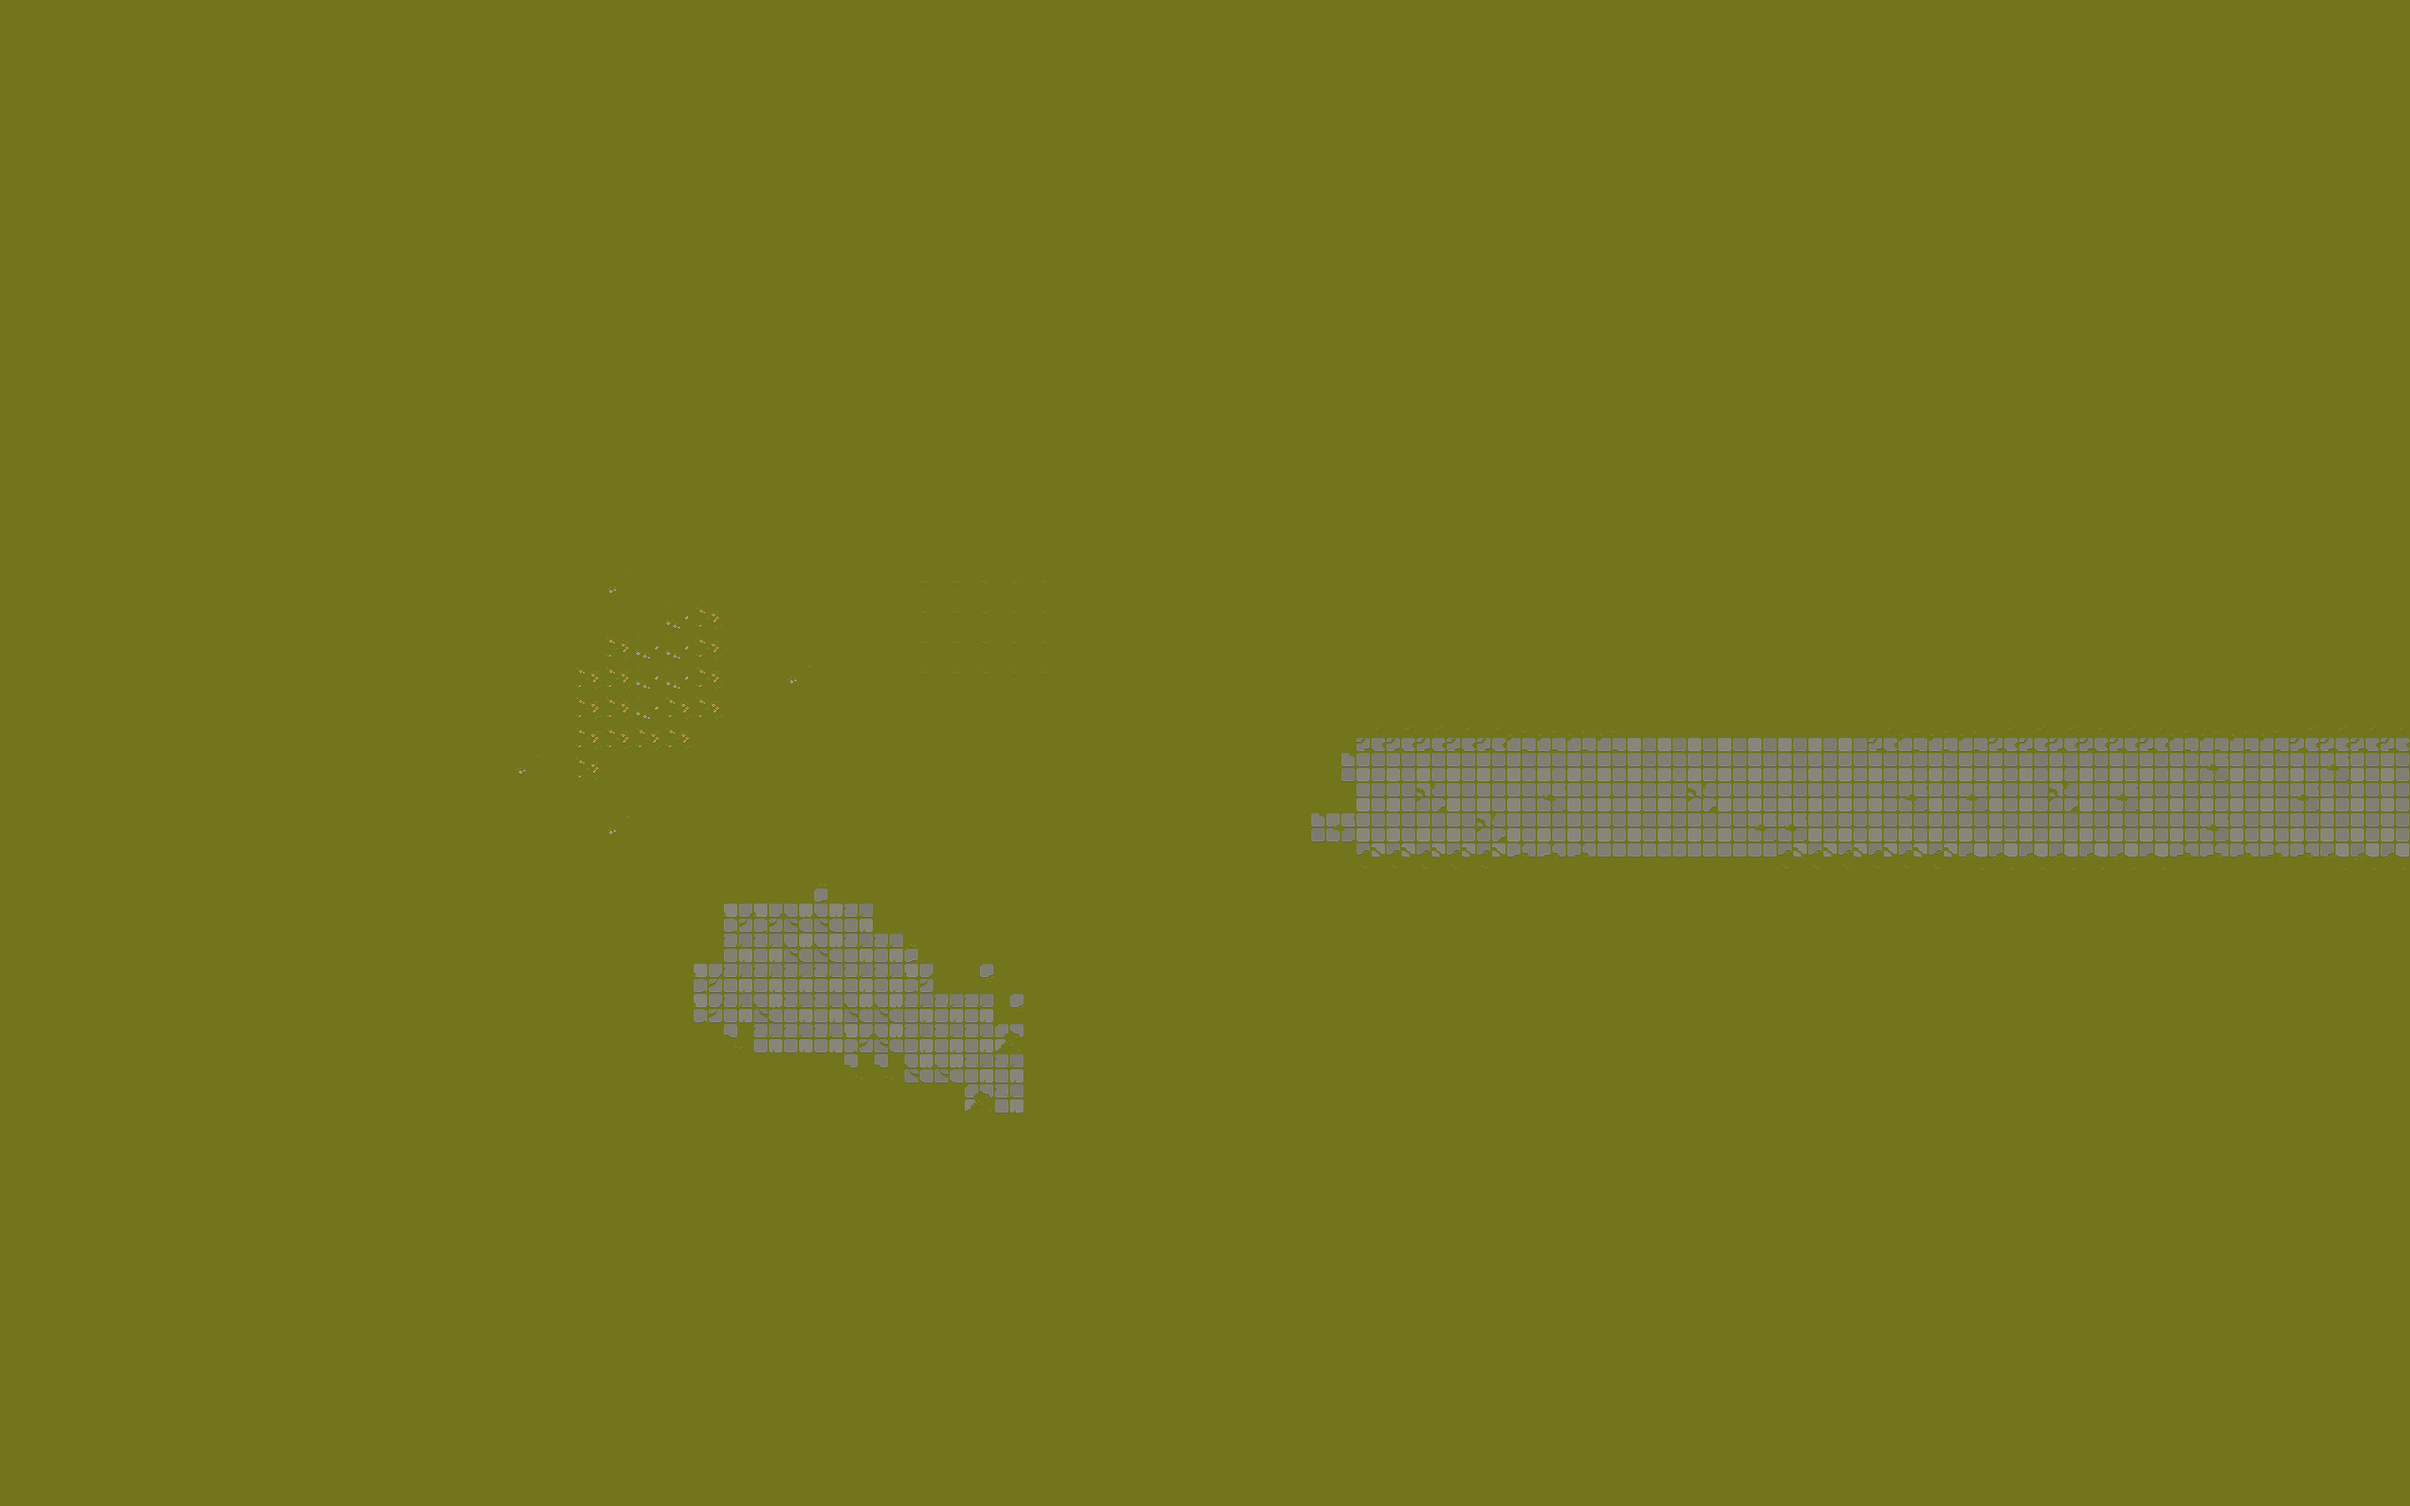
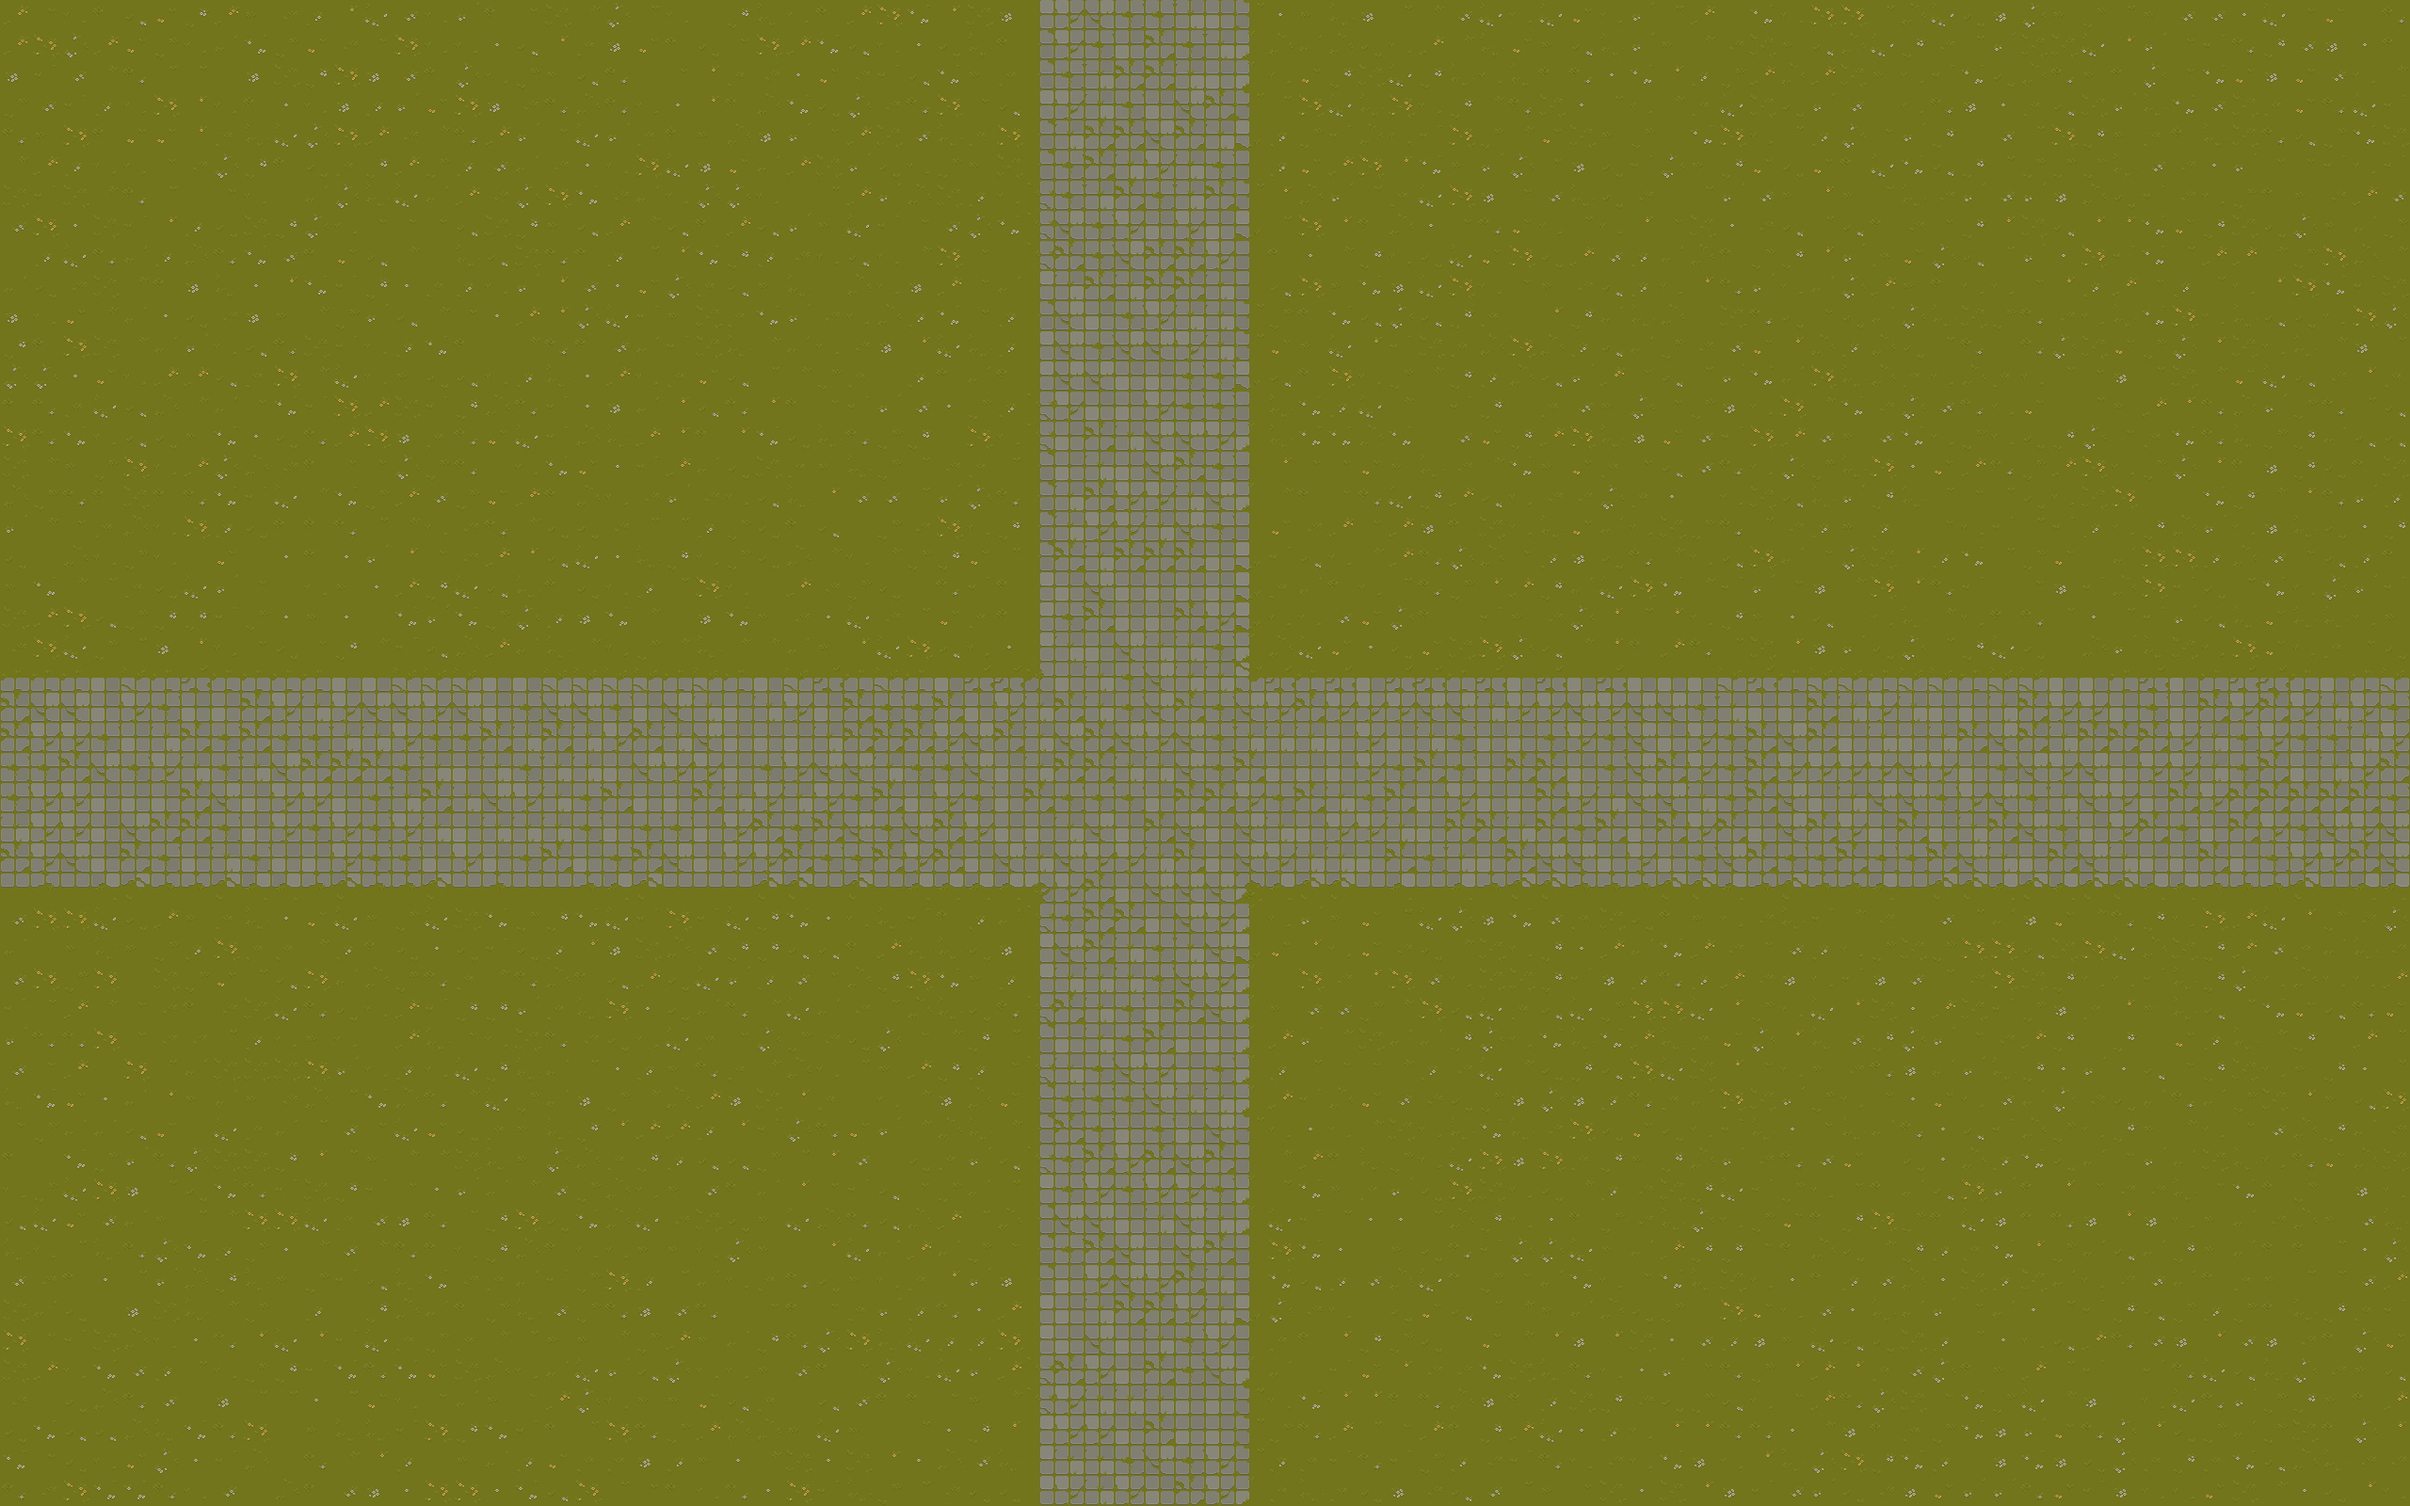
Add some lines, and redraw map

Changed region(s): [[0.0, 0.0, 1.0, 1.0]]

diff --git a/shop.py b/shop.py
@@ -1,8 +1,7 @@
-from debug import debug
 import pygame
-import json
+from math import floor
 
-
+from debug import debug
 from menu import *
 from support import *
 from settings import *
@@ -20,7 +19,8 @@ class Shop(Menu):
         # Card slider
         self.visible_cards = {}
         self.slider_index = 0
-        self.slider_arrows = []
+        self.slider_arrows = []        
+        self.slide_counter = {}
 
         # Card data
         self.shop_data = read_json_file("data/shop.json")
@@ -48,7 +48,7 @@ class Shop(Menu):
 
     def create_category_text(self):
         pos = [SCREEN_WIDTH/2, SCREEN_HEIGHT/2 - 180]
-        self.category_text = Text('title', self.active_category.upper(), UI_FONT, 40, 'white', pos)
+        self.category_text = Text('center', self.active_category.upper(), UI_FONT, 40, 'white', pos)
 
     def create_cards(self):
         card_size = [200, 240]
@@ -60,6 +60,7 @@ class Shop(Menu):
 
             self.cards[category] = []
             self.visible_cards[category] = [0, 1, 2]
+            self.slide_counter[category] = 1
 
             for item_place, item in enumerate(self.shop_data[category]):
                 pos = [start_pos[0] + (card_size[0] + gap) * item_place,
@@ -111,13 +112,19 @@ class Shop(Menu):
                                 self.visible_cards[category].remove(self.visible_cards[category][-1])
                                 self.visible_cards[category].insert(0, self.visible_cards[category][0] - 1)
                                 self.visible_cards[category].sort()
+                                self.slide_counter[self.active_category] -= 1
+                            
                         elif arrow_index == 1:
                             print("RIGHT")
                             if self.visible_cards[category][-1] < len(self.shop_data[category]) - 1:
                                 self.visible_cards[category].remove(self.visible_cards[category][0])
                                 self.visible_cards[category].append(self.visible_cards[category][-1] + 1)
                                 self.visible_cards[category].sort()
-    
+                                self.slide_counter[self.active_category] += 1       
+
+        self.slide_counter_text = Text('center', f"{self.slide_counter[self.active_category]}/{floor(len(self.shop_data[self.active_category]) - len(self.shop_data[self.active_category])/3)}", UI_FONT, UI_FONT_SIZE, "white", (SCREEN_WIDTH/2, SCREEN_HEIGHT/2 + 140))
+        self.slide_counter_text.display()
+                        
     def change_category(self):
         for category in self.category_buttons:
             button = self.category_buttons[category]
@@ -142,15 +149,20 @@ class Shop(Menu):
                         self.create_cards()
 
     def display_slider_arrows(self):
+        left_arrow_pos = [180, SCREEN_HEIGHT / 2 - 50]
+        right_arrow_pos = [SCREEN_WIDTH - 180, SCREEN_HEIGHT / 2 - 50]
+
         # if self.visible_cards[self.active_category][0] == 0:
-        #     self.slider_arrows[1].image.set_alpha(0)
+        #     print("LEFT DISABLED")
+        #     self.slider_arrows[0].pos = [SCREEN_WIDTH * 2, SCREEN_HEIGHT * 2]
         # else:
-        #     self.slider_arrows[1].image.set_alpha(255)
+        #     self.slider_arrows[0].pos = left_arrow_pos
         # if self.visible_cards[self.active_category][-1] == len(self.shop_data[self.active_category]) - 1:
-        #     self.slider_arrows[0].image.set_alpha(0)
+        #     print("RIGHT DISABLED")
+        #     self.slider_arrows[1].pos = [SCREEN_WIDTH * 2, SCREEN_HEIGHT * 2]
         # else:
-        #     self.slider_arrows[0].image.set_alpha(255)
-            
+        #     self.slider_arrows[1].pos = right_arrow_pos
+
         for category in self.cards:
             for arrow_index, arrow in enumerate(self.slider_arrows):
                 if len(self.cards[category]) > 3:
@@ -204,7 +216,7 @@ class Card:
             center=[pos[0] + 100, pos[1] + 60])
 
         # Name
-        self.name_text = Text("normal", self.name, UI_FONT, 30, 'white',
+        self.name_text = Text("left", self.name, UI_FONT, 30, 'white',
                               [pos[0] + 20, pos[1] + self.size[1] / 2])
 
         # Buy button
@@ -216,7 +228,7 @@ class Card:
             40,
             "graphics/ui/card/button/default.png",
             "graphics/ui/card/button/hover.png")
-        self.price_text = Text('normal', self.price, UI_FONT, UI_FONT_SIZE, 'white', 
+        self.price_text = Text('left', self.price, UI_FONT, UI_FONT_SIZE, 'white', 
         [pos[0] + 22, pos[1] + 214])
 
         # Stats
@@ -255,7 +267,7 @@ class Card:
                    start_pos[1] + (UI_FONT_SIZE + gap) * stat_place]
 
             stat_text = Text(
-                "normal", f"{text} : {self.stats[stat]}", UI_FONT, UI_FONT_SIZE, "white", pos)
+                "left", f"{text} : {self.stats[stat]}", UI_FONT, UI_FONT_SIZE, "white", pos)
             self.stats_texts.append(stat_text)
     
     def update_rect(self):
@@ -267,7 +279,7 @@ class Card:
             center=[self.pos[0] + 100, self.pos[1] + 60])
 
         # Name
-        self.name_text = Text("normal", self.name, UI_FONT, 30, 'white',
+        self.name_text = Text("left", self.name, UI_FONT, 30, 'white',
                               [self.pos[0] + 20, self.pos[1] + self.size[1] / 2])
         
         # Stats

diff --git a/level.py b/level.py
@@ -68,8 +68,7 @@ class Level:
         graphics = {
             'wall': import_cut_graphics('graphics/terrain/wall.png'),
             'grass': import_cut_graphics('graphics/terrain/grass.png'),
-            'stone_ground': import_cut_graphics('graphics/terrain/stone_ground.png'),
-            'objects': import_folder('../graphics/objects')
+            'objects': import_folder('graphics/objects')
         }
 
         for style, layout in layouts.items():
@@ -83,6 +82,9 @@ class Level:
                             surf = graphics['wall'][int(col)]
                             Tile("wall", (x, y), [self.visible_sprites,
                                                   self.obstacle_sprites], surf)
+                        if style == 'objects':
+                            surf = graphics['objects'][0]
+                            Object((x, y), [self.visible_sprites, self.obstacle_sprites], surf)
                         if style == 'entities':
                             if col == '0':
                                 self.player = Player((x, y),
@@ -93,17 +95,13 @@ class Level:
                                                      self.create_magic)
                             else:
                                 if col == '4':
-                                    enemy_name = 'raccoon'
+                                    enemy_name = 'slimevampire'
                                 Enemy(enemy_name,
                                       (x, y),
                                       [self.visible_sprites,
                                        self.attackable_sprites],
                                       self.obstacle_sprites,
                                       self.damage_player)
-                        if style == 'stone_ground':
-                            surf = graphics['stone_ground'][int(col)]
-                            Tile("stone_ground", (x, y), [
-                                 self.visible_sprites], surf)
                         # if style == 'grass':
                         #     surf = graphics['grass'][int(col)]
                         #     Tile("grass", (x, y), [self.visible_sprites], surf)

diff --git a/settings.py b/settings.py
@@ -54,4 +54,6 @@ enemy_data = {
     'squid': {'health': 100, 'exp': 100, 'damage': 20, 'attack_type': 'slash', 'attack_sound': '../audio/attack/slash.wav', 'speed': 3, 'resistance': 3, 'attack_radius': 80, 'notice_radius': 360},
     'raccoon': {'health': 300, 'exp': 250, 'damage': 40, 'attack_type': 'claw',  'attack_sound': '../audio/attack/claw.wav', 'speed': 2, 'resistance': 3, 'attack_radius': 120, 'notice_radius': 400},
     'spirit': {'health': 100, 'exp': 110, 'damage': 8, 'attack_type': 'thunder', 'attack_sound': '../audio/attack/fireball.wav', 'speed': 4, 'resistance': 3, 'attack_radius': 60, 'notice_radius': 350},
-    'bamboo': {'health': 70, 'exp': 120, 'damage': 6, 'attack_type': 'leaf_attack', 'attack_sound': '../audio/attack/slash.wav', 'speed': 3, 'resistance': 3, 'attack_radius': 50, 'notice_radius': 300}}
+    'bamboo': {'health': 70, 'exp': 120, 'damage': 6, 'attack_type': 'leaf_attack', 'attack_sound': '../audio/attack/slash.wav', 'speed': 3, 'resistance': 3, 'attack_radius': 50, 'notice_radius': 300},
+    'slimevampire': {'health': 70, 'exp': 120, 'damage': 6, 'attack_type': 'leaf_attack', 'attack_sound': '../audio/attack/slash.wav', 'speed': 3, 'resistance': 3, 'attack_radius': 50, 'notice_radius': 300}
+}

diff --git a/main.py b/main.py
@@ -19,7 +19,7 @@ class Game:
         self.scenes = {
             'start_menu': Menu('simple_menu',
                                [
-                                   Text("title",
+                                   Text("center",
                                         "PIXEL ARENA",
                                         UI_FONT,
                                         TITLE_FONT_SIZE,
@@ -38,7 +38,7 @@ class Game:
                                "graphics/ui/background.png"),
             'shop': Shop('shop',
                          [
-                             Text("title",
+                             Text("center",
                                   "SHOP",
                                   UI_FONT,
                                   TITLE_FONT_SIZE,
@@ -72,7 +72,7 @@ class Game:
 
     def run(self):
         while True:
-            for event in pygame.event.get():
+            for event in pygame.event.get(): 
                 if event.type == pygame.QUIT:
                     pygame.quit()
                     sys.exit()

diff --git a/menu.py b/menu.py
@@ -108,8 +108,8 @@ class Button:
 
 
 class Text:
-    def __init__(self, text_type, text, font, font_size, color, pos, margin=40):
-        self.text_type = text_type
+    def __init__(self, alignement, text, font, font_size, color, pos, margin=40):
+        self.alignement = alignement
         self.text = text
         self.margin = margin
         self.pos = pos
@@ -119,7 +119,7 @@ class Text:
         # Text
         self.font = pygame.font.Font(font, font_size)
         self.text_surf = self.font.render(str(text), False, color)
-        if self.text_type == 'title':
+        if self.alignement == 'center':
             self.rect = self.text_surf.get_rect(midtop=pos)
         else:
             self.rect = self.text_surf.get_rect(topleft=pos)

diff --git a/enemy.py b/enemy.py
@@ -68,8 +68,8 @@ class Enemy(Entity):
         distance = self.get_player_distance_direction(player)[0]
 
         if distance <= self.attack_radius and self.can_attack:
-            if self.status != 'attack':
-                self.frame_index = 0
+            # if self.status != 'attack':
+            #     self.frame_index = 0
             self.status = 'attack'
             self.can_attack = False
         elif distance <= self.notice_radius:
